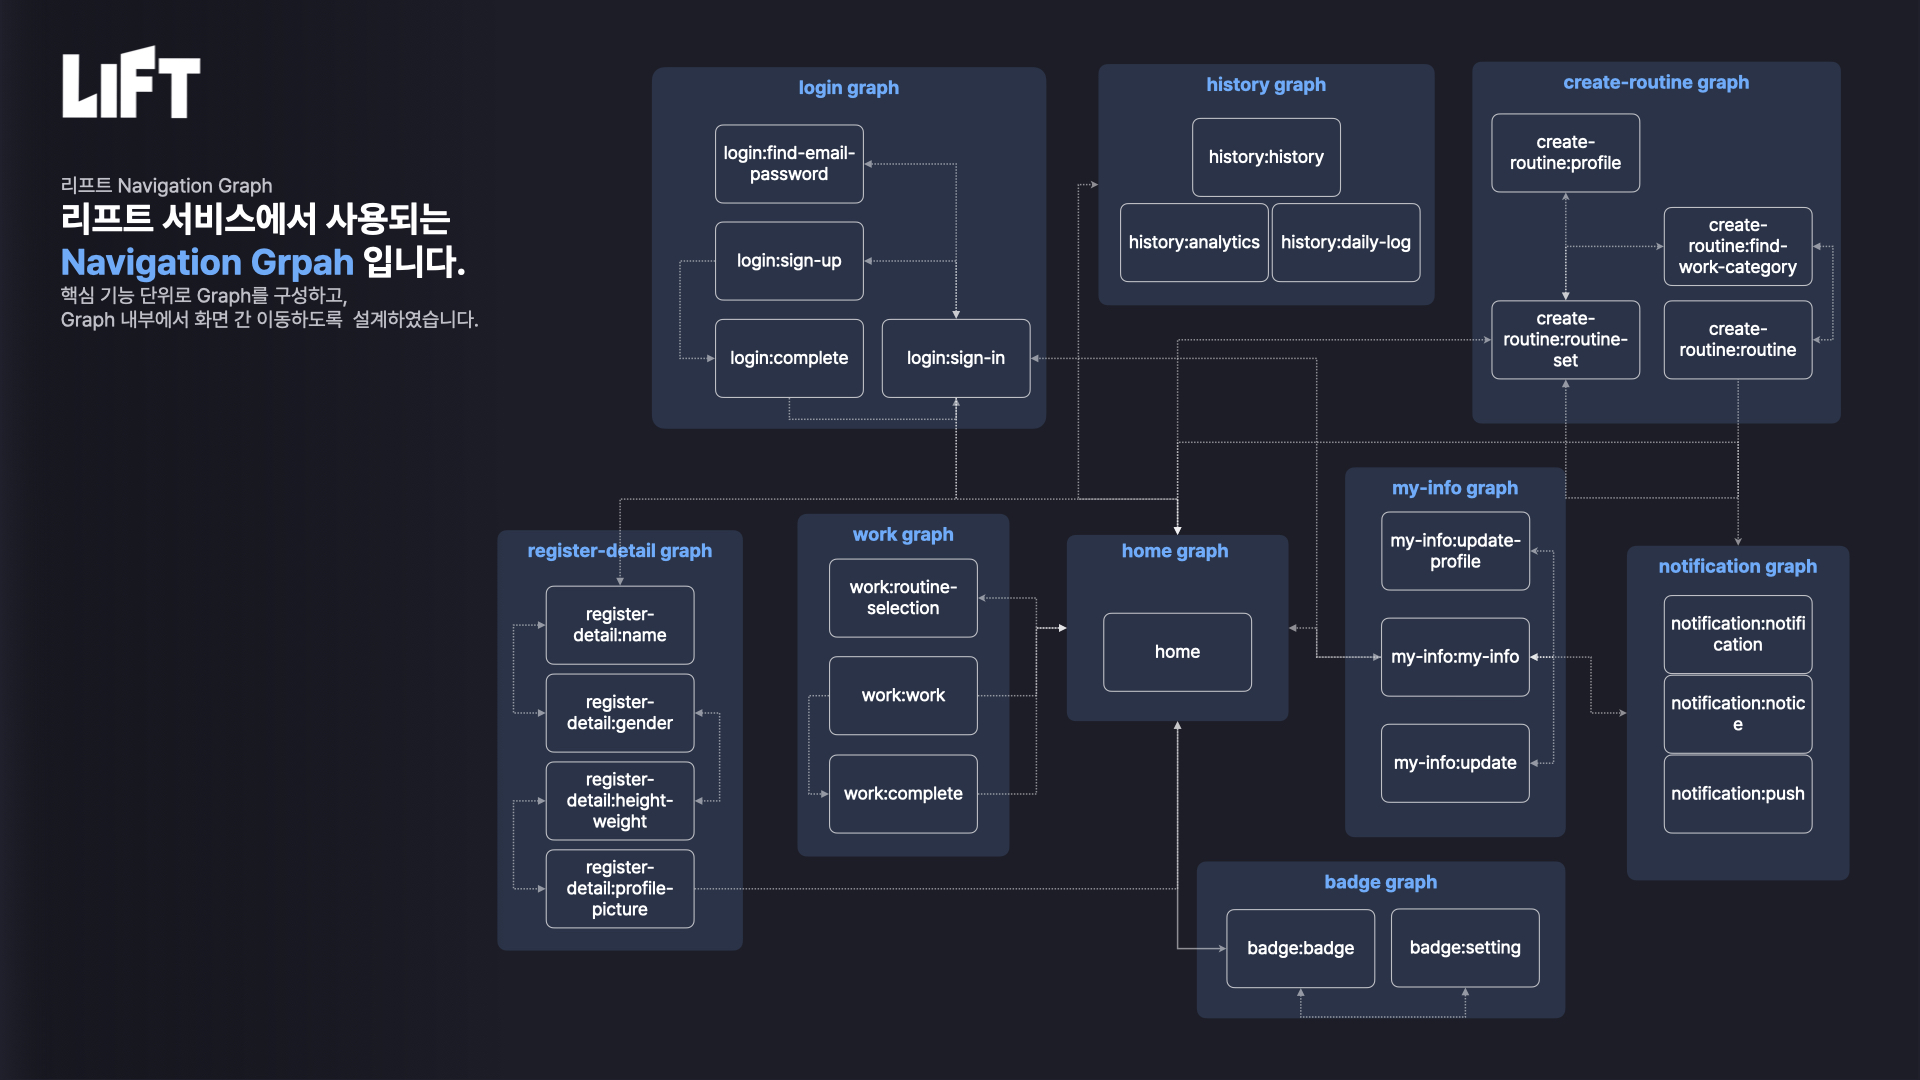
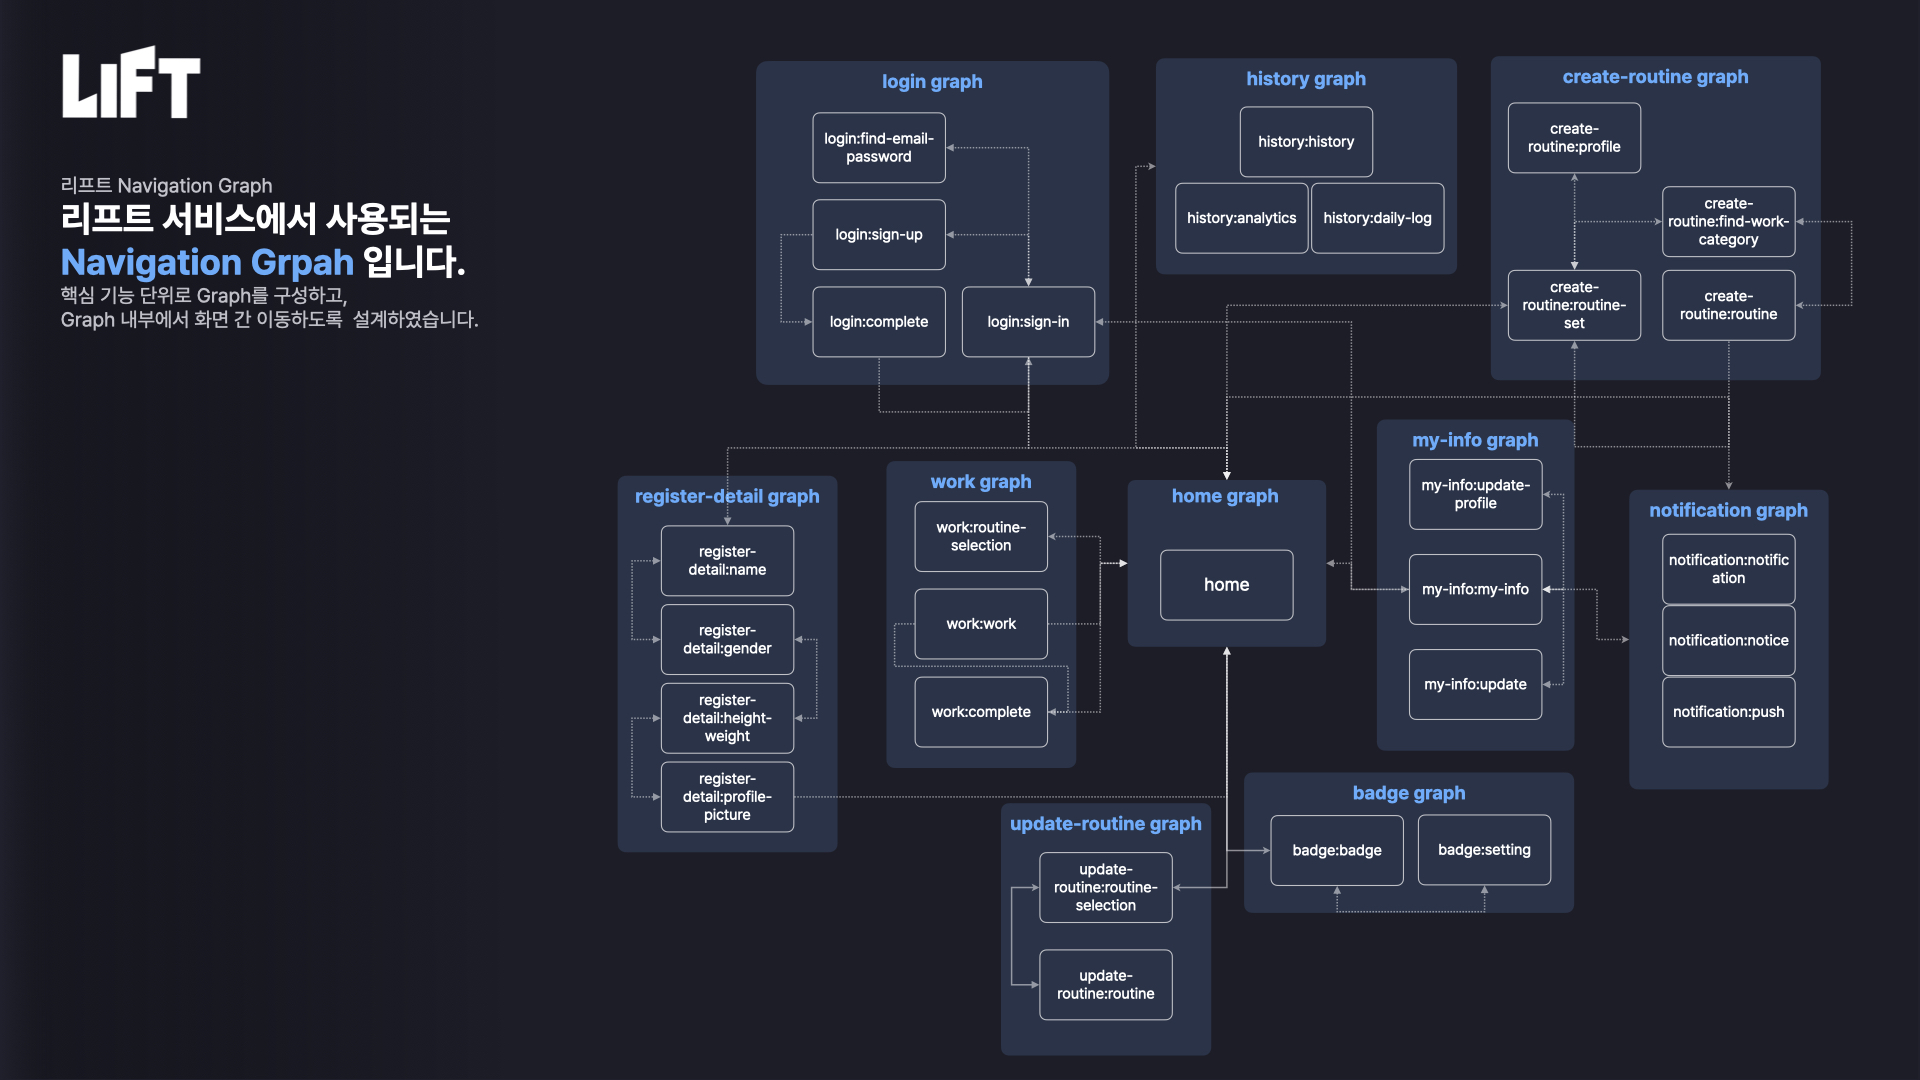
feat(navigation): feat update-routine navigation - update-routine 모듈 관련 네비게이션 그래프 및 라우터 상수를 정의합니다. - update-routine의 모듈간 네비게이션 로직을 정의합니다. - navigation 관련 문서파일을 업데이트합니다.

Changed region(s): [[0.25, 0.0306, 0.9688, 0.9778]]

diff --git a/core/navigation/src/main/java/com/gradation/lift/navigation/Router.kt b/core/navigation/src/main/java/com/gradation/lift/navigation/Router.kt
@@ -7,6 +7,7 @@ package com.gradation.lift.navigation
  * 현재 사용하는 그래프는 하단과 같음
  * [BADGE_GRAPH_NAME]
  * [CREATE_ROUTINE_GRAPH_NAME]
+ * [UPDATE_ROUTINE_GRAPH_NAME]
  * [HISTORY_GRAPH_NAME]
  * [HOME_GRAPH_NAME]
  * [LOGIN_GRAPH_NAME]
@@ -14,7 +15,7 @@ package com.gradation.lift.navigation
  * [NOTIFICATION_GRAPH_NAME]
  * [REGISTER_DETAIL_GRAPH_NAME]
  * [WORK_GRAPH_NAME]
- * @since 2023-08-19 14:55:43
+ * @since 2023-09-06 17:46:31
  * */
 object Router {
 
@@ -29,6 +30,10 @@ object Router {
     const val CREATE_ROUTINE_ROUTINE_ROUTER_NAME = "create_routine_routine"
     const val CREATE_ROUTINE_PROFILE_ROUTER_NAME = "create_routine_profile"
     const val CREATE_ROUTINE_FIND_WORK_CATEGORY_ROUTER_NAME = "create_routine_find_work_category"
+
+    const val UPDATE_ROUTINE_GRAPH_NAME = "update_routine_graph"
+    const val UPDATE_ROUTINE_ROUTINE_SELECTION_ROUTER_NAME = "update_routine_routine_selection"
+    const val UPDATE_ROUTINE_ROUTINE_ROUTER_NAME = "update_routine_routine"
 
     const val HISTORY_GRAPH_NAME = "history_graph"
     const val HISTORY_HISTORY_ROUTER_NAME = "history_history"

diff --git a/core/navigation/src/main/java/com/gradation/lift/navigation/navigation/UpdateRoutineNavigation.kt b/core/navigation/src/main/java/com/gradation/lift/navigation/navigation/UpdateRoutineNavigation.kt
@@ -1,0 +1,41 @@
+package com.gradation.lift.navigation.navigation
+
+import androidx.navigation.NavController
+import com.gradation.lift.navigation.Router.HOME_GRAPH_NAME
+import com.gradation.lift.navigation.Router.UPDATE_ROUTINE_ROUTINE_ROUTER_NAME
+import com.gradation.lift.navigation.Router.UPDATE_ROUTINE_ROUTINE_SELECTION_ROUTER_NAME
+
+fun NavController.navigateUpdateRoutineGraphToHomeGraph() {
+    this.navigate(HOME_GRAPH_NAME) {
+        launchSingleTop = true
+        popUpTo(this@navigateUpdateRoutineGraphToHomeGraph.graph.id) {
+            inclusive = true
+        }
+    }
+}
+
+
+fun NavController.navigateRoutineSelectionToRoutine() {
+    this.navigate(UPDATE_ROUTINE_ROUTINE_ROUTER_NAME)
+}
+
+fun NavController.navigateRoutineToRoutineSelection() {
+    this.navigate(UPDATE_ROUTINE_ROUTINE_SELECTION_ROUTER_NAME) {
+        this.popUpTo(UPDATE_ROUTINE_ROUTINE_ROUTER_NAME) {
+            inclusive = true
+        }
+    }
+}
+
+
+
+
+
+
+
+
+
+
+
+
+

diff --git a/core/navigation/src/main/java/com/gradation/lift/navigation/navigation/HomeNavigation.kt b/core/navigation/src/main/java/com/gradation/lift/navigation/navigation/HomeNavigation.kt
@@ -5,7 +5,6 @@ import androidx.navigation.NavHostController
 import com.gradation.lift.navigation.Router
 import com.gradation.lift.navigation.Router.HISTORY_GRAPH_NAME
 import com.gradation.lift.navigation.Router.HOME_GRAPH_NAME
-import com.gradation.lift.navigation.Router.MY_INFO_GRAPH_NAME
 
 
 fun NavController.navigateHomeGraphToWorkGraph() {
@@ -15,6 +14,11 @@ fun NavController.navigateHomeGraphToWorkGraph() {
 fun NavController.navigateHomeGraphToCreateRoutineGraph() {
     this.navigate(Router.CREATE_ROUTINE_GRAPH_NAME)
 }
+
+fun NavController.navigateHomeGraphToUpdateRoutineGraph() {
+    this.navigate(Router.UPDATE_ROUTINE_GRAPH_NAME)
+}
+
 
 fun NavController.navigateHomeGraphToBadgeGraph() {
     this.navigate(Router.BADGE_GRAPH_NAME)
